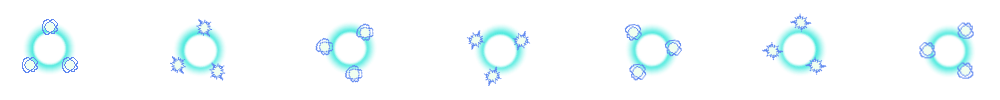
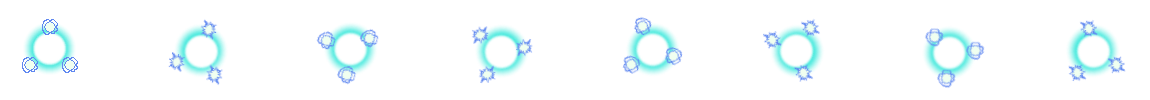
feat.스킬-라이트닝스피어,스파크 칼리버 작성

diff --git a/WinAPI/CPlayer.cpp b/WinAPI/CPlayer.cpp
@@ -96,9 +96,13 @@ void CPlayer::Init()
 	//Skill		2
 	m_pAnimator->CreateAnimation(L"SkillRight", m_pImage, Vector(1.f, 553.f), Vector(47.f, 47.f), Vector(49.f, 0.f), 0.1f, 2);
 	m_pAnimator->CreateAnimation(L"SkillLeft", m_pImageRV, Vector(832.f, 553.f), Vector(47.f, 47.f), Vector(-49.f, 0.f), 0.1f, 2);
+	m_pAnimator->CreateAnimation(L"SkillShotRight", m_pImage, Vector(1.f, 553.f), Vector(47.f, 47.f), Vector(49.f, 0.f), 0.1f, 2);
+	m_pAnimator->CreateAnimation(L"SkillShotLeft", m_pImageRV, Vector(832.f, 553.f), Vector(47.f, 47.f), Vector(-49.f, 0.f), 0.1f, 2);
 	//SkillLoop	4
 	m_pAnimator->CreateAnimation(L"SkillLoopRight", m_pImage, Vector(99.f, 553.f), Vector(47.f, 47.f), Vector(49.f, 0.f), 0.1f, 4);
 	m_pAnimator->CreateAnimation(L"SkillLoopLeft", m_pImageRV, Vector(687.f, 553.f), Vector(47.f, 47.f), Vector(-49.f, 0.f), 0.1f, 4);
+	m_pAnimator->CreateAnimation(L"SkillLoopShotRight", m_pImage, Vector(99.f, 553.f), Vector(47.f, 47.f), Vector(49.f, 0.f), 0.1f, 4);
+	m_pAnimator->CreateAnimation(L"SkillLoopShotLeft", m_pImageRV, Vector(687.f, 553.f), Vector(47.f, 47.f), Vector(-49.f, 0.f), 0.1f, 4);
 	//DIE		6 
 	m_pAnimator->CreateAnimation(L"DieRight", m_pImage, Vector(1.1f, 766.f), Vector(79.f, 63.f), Vector(81.f, 0.f), 0.5f, 6,false);//80,829
 	m_pAnimator->CreateAnimation(L"DieLeft", m_pImageRV, Vector(831.9f, 766.f), Vector(79.f, 63.f), Vector(-81.f, 0.f), 0.5f, 6,false);
@@ -191,6 +195,7 @@ void CPlayer::Update()
 			if (BUTTONDOWN('C'))
 			{
 				Skill();
+				
 			}
 			if(gState!=Ground::Ground&&m_bIsJump!=true)
 				Fall();
@@ -205,7 +210,8 @@ void CPlayer::Update()
 		if (gState == Ground::Ground)
 			m_fFallSpeed = 0;
 	}
-	
+	if (skillOn != nullptr)
+		skillOn->SetPos(m_vecPos);
 	
 	AnimatorUpdate();
 }
@@ -223,13 +229,15 @@ void CPlayer::AnimatorUpdate()
 	if (m_vecMoveDir.Length() > 0)
 	{
 		m_vecLookDir = m_vecMoveDir;
-		
-	}if (IntroTimer < 1.f)
+	}
+	if (IntroTimer < 1.f)
 		m_pAnimator->Play(L"IntroRight", false);
+
 	else if (2.f> IntroTimer&&IntroTimer>1.f)
 	{
 		m_pAnimator->Play(L"IntroIdleRight", false);
 	}
+
 	else
 	{
 		wstring str = L"";

diff --git a/WinAPI/CScreenUI.cpp b/WinAPI/CScreenUI.cpp
@@ -39,7 +39,7 @@ void CScreenUI::Render()
 {
 	
 	
-	RENDER->Image(m_Hpbar, (m_vecRenderPos.x + 100),
+	RENDER->Image(m_Hpbar, (m_vecRenderPos.x + 100 ),
 		(m_vecRenderPos.y),
 		(m_vecRenderPos.x + 100 + WINSIZEX * 0.2f),
 		(m_vecRenderPos.y + WINSIZEY * 0.1f) );
@@ -49,7 +49,7 @@ void CScreenUI::Render()
 		(m_vecRenderPos.x + 104) , (m_vecRenderPos.y + WINSIZEY) );
 	RENDER->Image(m_SideBar, WINSIZEX+m_vecRenderPos.x-100, m_vecRenderPos.y,WINSIZEX+ m_vecRenderPos.x +100, m_vecRenderPos.y+ WINSIZEY);
 	
-	RENDER->FillRect(m_vecRenderPos.x + 325, m_vecRenderPos.y +11, m_vecRenderPos.x +345, m_vecRenderPos.y +22 , Color(0,0,0,1));
+	RENDER->FillRect(m_vecRenderPos.x + 335 - (Hp * 8), m_vecRenderPos.y +11, m_vecRenderPos.x +345, m_vecRenderPos.y +22 , Color(0,0,0,1));
 	
 	
 	RENDER->Text(L"RETRY",m_vecRenderPos.x+30 , m_vecRenderPos.y+WINSIZEY-150, m_vecRenderPos.x + 100, m_vecRenderPos.y + WINSIZEY -60,Color(0,255,0,1));

diff --git a/WinAPI/CSparkCaliver.h b/WinAPI/CSparkCaliver.h
@@ -1,0 +1,37 @@
+#pragma once
+#include "CGameObject.h"
+class CSparkCaliver :
+    public CGameObject
+{
+public:
+    CSparkCaliver();
+    virtual ~CSparkCaliver();
+
+
+private:
+    CImage* m_SparkCal;
+    CImage* m_Blank;
+    CAnimator* m_pAnimator;
+
+private:
+    Vector m_vecLookDir;
+
+    bool m_bIsSpCal = false;
+
+    float Timer = 0;
+
+    void Init() override;
+    void Update() override;
+    void Render() override;
+    void Release() override;
+
+    void AnimatorUpdate();
+
+    void OnCollisionEnter(CCollider* pOtherCollider) override;
+    void OnCollisionStay(CCollider* pOtherCollider) override;
+    void OnCollisionExit(CCollider* pOtherCollider) override;
+     
+public:
+    void SetDir(Vector a) { m_vecLookDir = a; };
+};
+

diff --git a/WinAPI/CLightningSphere.h b/WinAPI/CLightningSphere.h
@@ -1,0 +1,36 @@
+#pragma once
+#include "CGameObject.h"
+class CLightningSphere :
+    public CGameObject
+{
+public:
+    CLightningSphere();
+    virtual ~CLightningSphere();
+
+
+private:
+    CImage* m_LiSph;
+    CImage* m_Blank;
+    CAnimator* m_pAnimator;
+
+private:
+    Vector m_vecLookDir;
+
+    bool m_bIsLiSp = false;
+    
+
+    float Timer = 0;
+
+    void Init() override;
+    void Update() override;
+    void Render() override;
+    void Release() override;
+
+    void AnimatorUpdate();
+
+    void OnCollisionEnter(CCollider* pOtherCollider) override;
+    void OnCollisionStay(CCollider* pOtherCollider) override;
+    void OnCollisionExit(CCollider* pOtherCollider) override;
+
+};
+

diff --git a/WinAPI/CPlayerSkill.h b/WinAPI/CPlayerSkill.h
@@ -2,7 +2,8 @@
 #include "CGameObject.h"
 #include "CPlayer.h"
 class CImage;
-
+class  CLightningSphere;
+class CSparkCaliver;
 enum class SkillSel {
     Idle,
     LightningSphere,
@@ -21,9 +22,11 @@ public:
 
 
 private:
-    CImage* m_SparkCal;
-    CImage* m_SparkCalRV;
-    CImage* m_LiSph;
+    CLightningSphere*   LiSp;
+    CSparkCaliver*      SpCal;
+
+
+    CImage* m_SelBut;
     CImage* m_Blank;
     CAnimator* m_pAnimator;
 

diff --git a/WinAPI/CTimeManager.cpp b/WinAPI/CTimeManager.cpp
@@ -5,6 +5,7 @@ CTimeManager::CTimeManager()
 {
 	m_uiFPS = 1;
 	m_fDT = 1;
+	m_fTimeScale = 1;
 	updateCount = 0;
 	updateOneSecond = 0;
 
@@ -28,7 +29,7 @@ void CTimeManager::Update()
 	curTime = chrono::high_resolution_clock::now();
 	chrono::duration<float> elapsed = curTime - prevTime;
 
-	m_fDT = elapsed.count();
+	m_fDT = elapsed.count()*m_fTimeScale;
 	if (m_fDT > 0.1f) m_fDT = 0.1f;
 	prevTime = curTime;
 

diff --git a/WinAPI/CScreenUI.h b/WinAPI/CScreenUI.h
@@ -8,13 +8,15 @@ public:
 	CScreenUI();
 	virtual ~CScreenUI();
 
-	
+	void SetHp(float a) { Hp = a; }
+	float GetHP() { return Hp; }
 private:
 	CImage* m_Hpbar;
 	CImage* m_PIcon;
 	CImage* m_SideBar;
 
 	float UpTime=0;
+	float Hp = 0;
 	int RetryCount = 0;
 	int min = 0;
 	wstring Timer = L"";
